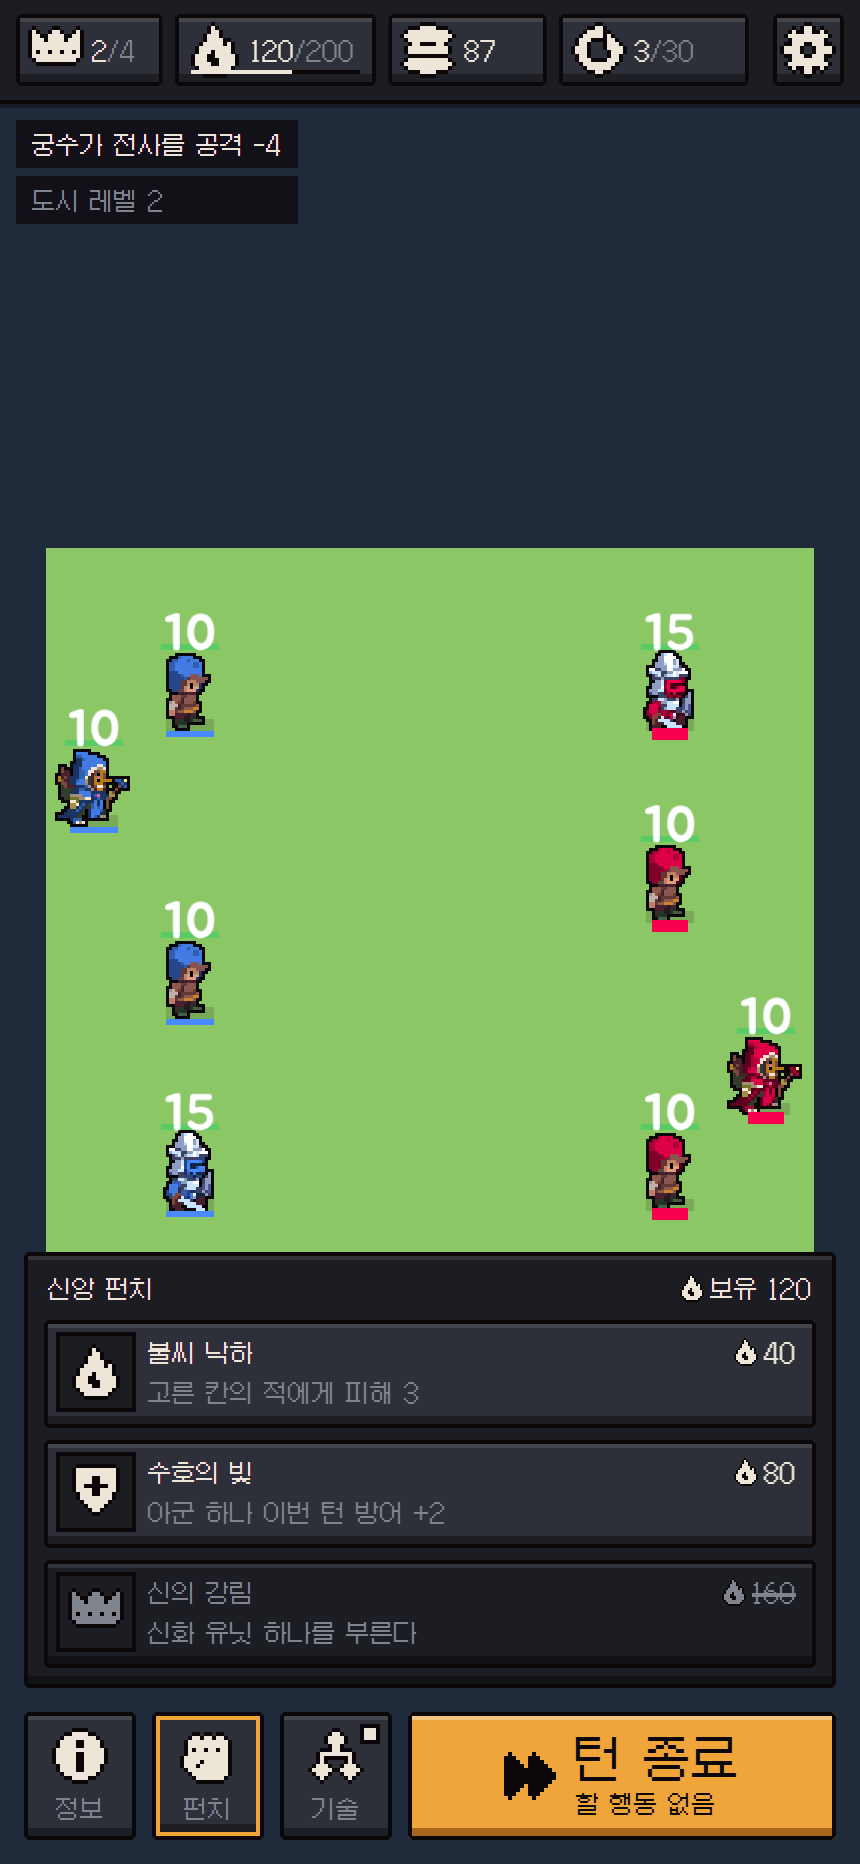
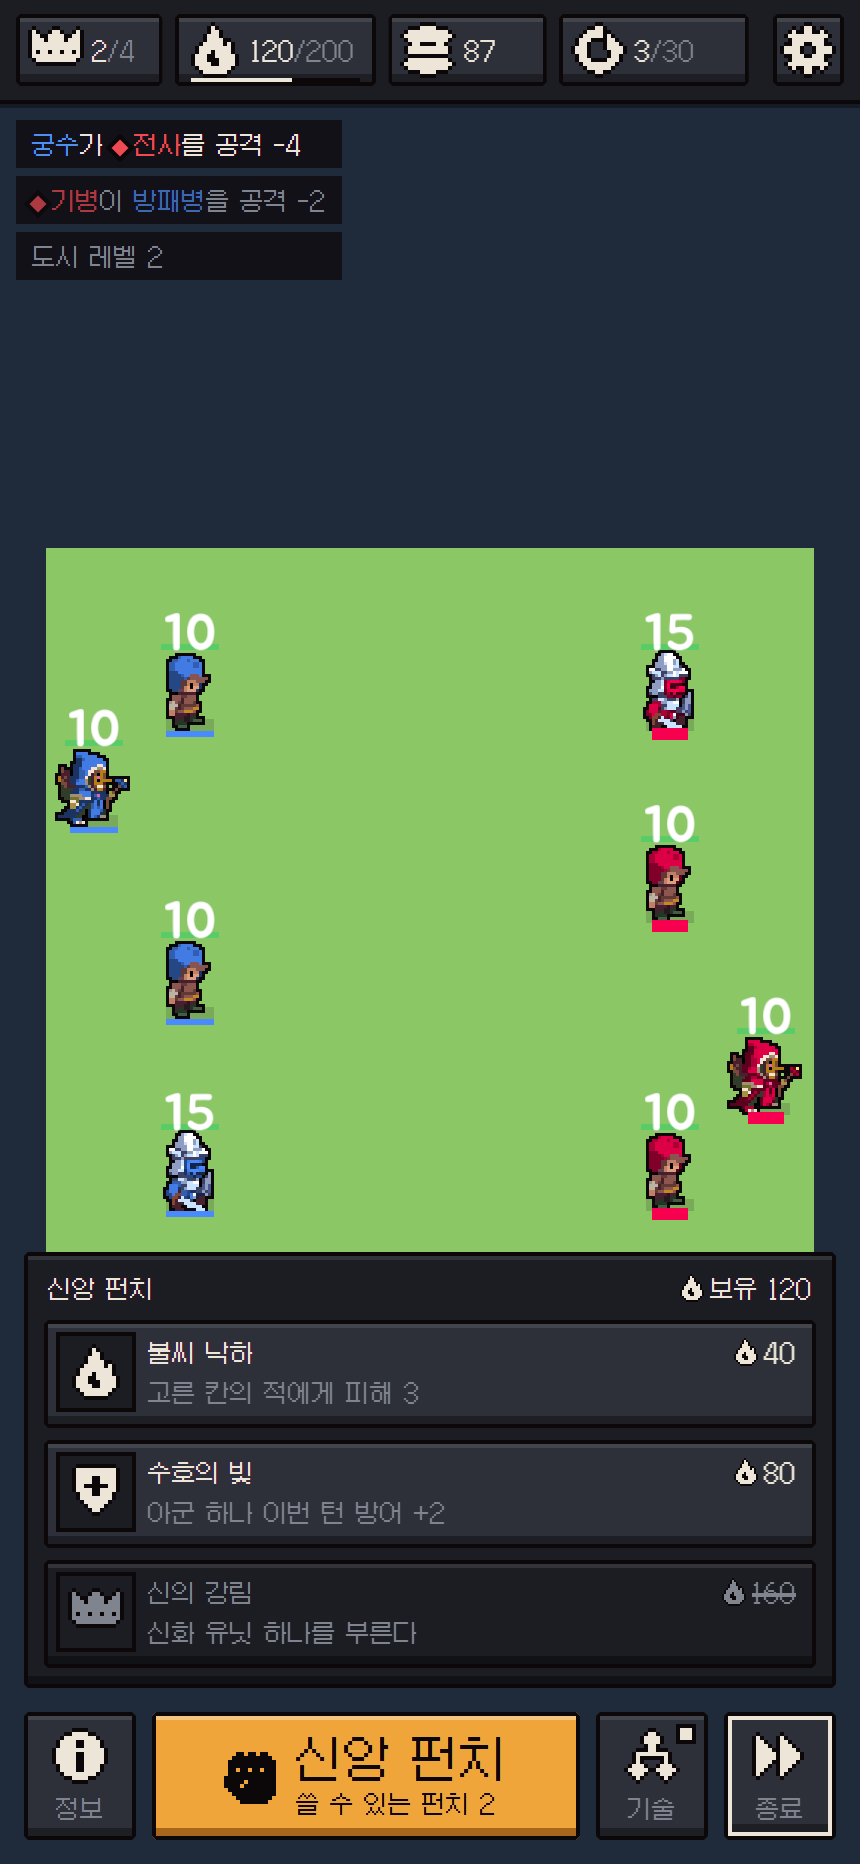
docs(hud): emphasize faith punch over end turn; team-colored log names
- Faith punch is now the only A-tier element: widest bottom button with
  amber fill and "n usable" sub-line. End turn drops to D-tier: square
  tool button, no accent, states told by outline/icon/count.
- Action log colors only entity names with team colors (same as map
  badges), with a team mark before enemy names so color is not the only cue.
- Faith gauge sits on the chip bottom so it no longer overlaps the icon.

Changed region(s): [[0.0, 0.0311, 0.4233, 0.1556], [0.1814, 0.9024, 0.6349, 0.9957], [0.6651, 0.9024, 0.9674, 0.9957]]

diff --git a/docs/mockups/hud/hud_mockup.html b/docs/mockups/hud/hud_mockup.html
@@ -59,7 +59,7 @@ canvas.icon { image-rendering: pixelated; display: block; flex: none; }
 .chip { display: flex; align-items: center; gap: 4px; height: 36px; padding: 0 8px 0 4px; }
 .chip .val { font-size: 12px; letter-spacing: 0; white-space: nowrap; }
 .chip .val .max { color: var(--muted); }
-.chip .gauge { position: absolute; left: 6px; right: 6px; bottom: 4px; height: var(--t); background: var(--ink); }
+.chip .gauge { position: absolute; left: 6px; right: 6px; bottom: 0; height: var(--t); background: var(--ink); }
 .chip .gauge i { display: block; height: 100%; background: var(--paper); }
 .spacer { flex: 1; }
 .iconbtn { width: 36px; height: 36px; display: flex; align-items: center; justify-content: center; }
@@ -69,16 +69,23 @@ canvas.icon { image-rendering: pixelated; display: block; flex: none; }
   font-size: 12px; line-height: 12px; color: var(--muted);
   padding: 1px 3px; background: rgba(12,8,10,0.55);
 }
-.endturn:has(.key) { justify-content: flex-start; padding-left: 10px; }
+.punchbtn .key { top: 3px; bottom: auto; }
+.count { position: absolute; right: 4px; top: 3px; font-size: 12px; line-height: 12px; color: var(--paper); }
+:root { --team-p: #4f8ff0; --team-e: #ef4b55; }
+.team { font-weight: normal; }
+.team.p { color: var(--team-p); }
+.team.e { color: var(--team-e); }
+.team .mark { display: inline-block; width: 6px; height: 6px; margin: 0 4px 1px 0; background: var(--team-e); transform: rotate(45deg); box-shadow: 0 0 0 var(--t) var(--ink); }
+.toast div.old .team { opacity: 0.7; }
 .accent-fill .key { color: var(--ink); background: rgba(12,8,10,0.12); }
 
 .actionrow { position: absolute; display: flex; gap: 8px; align-items: stretch; }
 .act { display: flex; flex-direction: column; align-items: center; justify-content: center; gap: 4px; }
 .act .lbl { font-size: 12px; color: var(--muted); }
-.act.endturn { flex: 1; flex-direction: row; gap: 8px; }
-.endturn .txt { display: flex; flex-direction: column; gap: 3px; }
-.endturn .big { font-size: 24px; line-height: 24px; font-family: 'Galmuri11', 'Jua', sans-serif; }
-.endturn .sub { font-size: 12px; }
+.act.punchbtn { flex: 1; flex-direction: row; gap: 8px; }
+.punchbtn .txt { display: flex; flex-direction: column; gap: 3px; }
+.punchbtn .big { font-size: 24px; line-height: 24px; font-family: 'Galmuri11', 'Jua', sans-serif; }
+.punchbtn .sub { font-size: 12px; }
 .badge-dot { position: absolute; right: 6px; top: 6px; width: 6px; height: 6px; background: var(--paper); box-shadow: 0 0 0 var(--t) var(--ink); }
 
 .punch { position: absolute; display: flex; flex-direction: column; gap: 6px; padding: 8px; }
@@ -320,19 +327,19 @@ const ICONS = {
 };
 
 const css = name => getComputedStyle(document.documentElement).getPropertyValue(name).trim();
-function icon(name, color = 'paper', scale = 2) {
+function icon(name, color = 'paper', scale = 2, detail = 'ink') {
   const g = ICONS[name], S = N + 2;
   const cv = document.createElement('canvas');
   cv.width = S; cv.height = S; cv.className = 'icon';
   cv.style.width = cv.style.height = (S * scale) + 'px';
   const ctx = cv.getContext('2d');
-  const fill = css('--' + color), ink = css('--ink');
+  const fill = css('--' + color), ink = css('--ink'), det = css('--' + detail);
   const at = (x, y) => (x >= 0 && y >= 0 && x < N && y < N) ? g[y][x] : '.';
   for (let y = -1; y <= N; y++) for (let x = -1; x <= N; x++) {
     const c = at(x, y);
     let col = null;
     if (c === '#') col = fill;
-    else if (c === 'd') col = ink;
+    else if (c === 'd') col = det;
     else if ([[1,0],[-1,0],[0,1],[0,-1]].some(([dx, dy]) => at(x + dx, y + dy) !== '.')) col = ink;
     if (col) { ctx.fillStyle = col; ctx.fillRect(x + 1, y + 1, 1, 1); }
   }
@@ -380,18 +387,19 @@ function actionRow(o) {
     return b;
   };
   const info = mk('info', o.labels ? '정보' : '', 'I', o.infoOpen ? 'hover' : '');
-  const punch = mk('fist', o.labels ? '펀치' : '', 'F', 'accent-line');
+  // 7 신앙 펀치: 유일한 A등급 — 남는 폭 전부 + 쓸 수 있으면 Accent 채움
+  const punch = box(h('div', 'frame act punchbtn accent-fill'), { height: o.height + 'px' });
+  put(punch, icon('fist', 'ink', 2, 'accent'));  // Accent 바탕 위: 칠은 잉크, 디테일은 바탕색
+  const txt = h('div', 'txt');
+  txt.appendChild(h('span', 'big', '신앙 펀치'));
+  txt.appendChild(h('span', 'sub', '쓸 수 있는 펀치 2'));
+  punch.appendChild(txt);
+  if (o.keys) punch.appendChild(key('F'));
   const tech = mk('tree', o.labels ? '기술' : '', 'T');
   tech.appendChild(h('span', 'badge-dot'));
-  const end = box(h('div', 'frame act endturn ' + (o.endState === 'noaction' ? 'accent-fill' : '')), { height: o.height + 'px' });
-  const endColor = o.endState === 'noaction' ? 'ink' : 'paper';
-  put(end, icon('ff', endColor));
-  const txt = h('div', 'txt');
-  txt.appendChild(h('span', 'big', '턴 종료'));
-  txt.appendChild(box(h('span', 'sub', o.endState === 'noaction' ? '할 행동 없음' : '남은 행동 2'),
-    { color: o.endState === 'noaction' ? 'var(--ink)' : 'var(--muted)' }));
-  end.appendChild(txt);
-  if (o.keys) end.appendChild(key('Space'));
+  // 9 턴 종료: D등급 — 정사각형, 포인트 컬러 없음. 행동 없음이면 Paper 테두리, 남았으면 남은 수
+  const end = mk(o.endState === 'over' ? 'flag' : 'ff', o.labels ? '종료' : '', 'Space', o.endState === 'noaction' ? 'hover' : '');
+  if (o.endState === 'left') end.appendChild(h('span', 'count', '2'));
   put(row, info, punch, tech, end);
   return { row, punch };
 }
@@ -426,6 +434,9 @@ function punchList(o) {
   return p;
 }
 
+// 행동 기록: 개체 이름 글자만 팀 색, 적 이름 앞에는 팀 표식(색에만 기대지 않게)
+const P = n => `<b class="team p">${n}</b>`;
+const E = n => `<b class="team e"><i class="mark"></i>${n}</b>`;
 function toast(pos, lines) {
   const t = box(h('div', 'toast'), pos);
   lines.forEach((l, i) => t.appendChild(h('div', i ? 'old' : '', l)));
@@ -478,17 +489,17 @@ if (v === 'mobile') {
   screen.appendChild(map(0.5));
   const chipW = Math.floor((W - 16 - 36 - 6 * 4) / 4);
   screen.appendChild(topbar({ height: 52, rank: 2, chipWidth: [chipW - 14, chipW + 14, chipW - 8, chipW + 8], turnLimit: 30 }));
-  screen.appendChild(toast({ left: '8px', top: '60px' }, ['궁수가 전사를 공격 -4', '도시 레벨 2']));
+  screen.appendChild(toast({ left: '8px', top: '60px' }, [`${P('궁수')}가 ${E('전사')}를 공격 -4`, `${E('기병')}이 ${P('방패병')}을 공격 -2`, '도시 레벨 2']));
   const { row } = actionRow({ pos: { left: pad + 'px', right: pad + 'px', bottom: pad + 'px' }, height: rowH, square: sq, labels: true, endState: 'noaction' });
   screen.appendChild(row);
   const punchX = pad + sq + 8;
-  screen.appendChild(punchList({ pos: { left: pad + 'px', right: pad + 'px', bottom: (pad + rowH + 12) + 'px' }, notchX: punchX - pad + sq / 2 + 4 - 6 }));
+  screen.appendChild(punchList({ pos: { left: pad + 'px', right: pad + 'px', bottom: (pad + rowH + 12) + 'px' }, notchX: (sq + 8) + (W - pad * 2 - sq * 3 - 24) / 2 - 6 }));
 } else {
   // PC(넓은 배치) · 키보드·마우스 · 유닛 정보 열림 · 신앙 칩에 마우스 · 행동 남음
   const colW = 360, pad = 12, rowH = 56, sq = 56;
   screen.appendChild(map(2 / 3));
   screen.appendChild(topbar({ height: 48, rank: 1, keys: true, faithHover: true, chipWidth: [84, 118, 76, 64] }));
-  screen.appendChild(toast({ left: '8px', top: '200px' }, ['궁수가 전사를 공격 -4', '도시 레벨 2']));
+  screen.appendChild(toast({ left: '8px', top: '200px' }, [`${P('궁수')}가 ${E('전사')}를 공격 -4`, `${E('기병')}이 ${P('방패병')}을 공격 -2`, '도시 레벨 2']));
   const { row } = actionRow({ pos: { right: pad + 'px', bottom: pad + 'px', width: colW + 'px' }, height: rowH, square: sq, labels: false, keys: true, infoOpen: true, endState: 'left' });
   screen.appendChild(row);
   screen.appendChild(unitPanel({ right: pad + 'px', top: '60px', width: colW + 'px' }));

diff --git a/docs/HudPixelRedesignPlan.md b/docs/HudPixelRedesignPlan.md
@@ -24,18 +24,18 @@
 
 - 포인트 컬러는 **호박색**으로 정했다(신앙·금화와 연결된다). 정확한 색값은 지도(지형·팀 색)와 겹치지 않는지 실제 화면 캡처로 확인하며 정한다.
 - `Accent`는 명도 2단(`Accent`, `AccentDark` = 베벨 그림자)만 허용. 9-slice 틀은 지금처럼 무채색으로 그리고 `Image.color`로 물들인다.
-- 지금 HUD에 흩어진 색(`PrimaryColor`, `StarColor`, `FaithColor`, 턴 표시의 `PlayerAccent`/`EnemyAccent`)은 위 토큰으로 흡수한다. **팀 색은 지도(유닛 배지)에만 남기고 HUD에서는 뺀다** — 적 턴은 색 대신 "적 차례" 문구 + 턴 종료 버튼 잠금으로 보여 준다.
+- 지금 HUD에 흩어진 색(`PrimaryColor`, `StarColor`, `FaithColor`, 턴 표시의 `PlayerAccent`/`EnemyAccent`)은 위 토큰으로 흡수한다. **팀 색은 지도(유닛 배지)와 행동 기록의 개체 이름 글자에만 쓴다** — 칸·버튼 바탕에는 칠하지 않으므로 포인트 컬러 개수에 넣지 않는다. 적 턴은 색 대신 "적 차례" 문구 + 턴 종료 버튼 잠금으로 보여 준다.
 
 ## 3. 중요도 등급
 
 | 등급 | 요소 | 판단 근거 | 표현 |
 |---|---|---|---|
-| A — 행동 | 9 턴 종료, 7 신앙 펀치 | 매 턴 누르며, 누를 타이밍이 중요 | 하단, 가장 큰 버튼, 상태에 따라 `Accent` |
+| A — 결정 | 7 신앙 펀치 | 쓸 타이밍이 판세를 바꾼다 | 하단 가운데, 가장 넓은 버튼, 쓸 수 있으면 `Accent` 채움 |
 | B — 자원 | 2 신앙 포인트, 3 골드 | 매 행동 전 확인하는 숫자 | 상단 가운데, 큰 숫자(2배 글자) |
 | C — 맥락 | 4 턴, 1 신앙 순위 | 가끔 보는 진행 정보 | 상단 양쪽, 작은 숫자 |
-| D — 도구 | 5 메뉴, 6 정보, 8 기술 트리 | 필요할 때만 여는 창 | 아이콘만, 무채색, 작은 버튼 |
+| D — 도구 | 5 메뉴, 6 정보, 8 기술 트리, 9 턴 종료 | 필요할 때만 여는 창 / 정해진 때 한 번 누르는 버튼 | 아이콘(+작은 라벨), 무채색, 정사각형 버튼 |
 
-> 시안은 하단 4버튼이 같은 크기지만, 이 등급에 따라 **9 > 7 > 8 = 6** 으로 폭을 다르게 한다(순서는 시안 유지).
+> 시안은 하단 4버튼이 같은 크기지만, 이 등급에 따라 **7이 남는 폭을 모두 갖고 6 = 8 = 9는 정사각형**으로 둔다(순서는 시안 유지).
 
 ## 4. 요소별 디자인
 
@@ -45,7 +45,7 @@
 | # | 내용 | 아이콘(16×16) | 상태 표현 |
 |---|---|---|---|
 | 1 | 신앙 순위 `n/전체` — 기존 [신앙 순위](spec/game/faith.md)(살아 있는 유닛 수, 공동 순위 포함) | 왕관 | 1위일 때만 왕관을 `Accent`. 나머지는 `Paper`. 누르면 말풍선: 유닛 수 · 다음 순위까지 필요한 유닛 수 · 순위 보너스(`Faith.RankBonus*`) |
-| 2 | 신앙 `현재/최대` + 아래 1텍셀 게이지 | 불꽃 | 최대치 도달 시 게이지 `Accent`(넘치는 신앙이 버려진다는 신호). 다음 턴 수입은 누르면 말풍선 |
+| 2 | 신앙 `현재/최대` + 칩 바닥의 1텍셀 게이지(아이콘 아래에 붙여 겹치지 않게) | 불꽃 | 최대치 도달 시 게이지 `Accent`(넘치는 신앙이 버려진다는 신호). 다음 턴 수입은 누르면 말풍선 |
 | 3 | 골드(현재의 "별") `0~999` | 동전 더미 | 이번 턴 살 수 있는 게 없으면 숫자를 `Muted` |
 | 4 | 턴 `현재/제한`, 제한 없으면 `현재`만 | 원형 화살표 | 남은 턴이 적을 때(규칙값은 CSV) 숫자 깜빡임 2프레임 |
 | 5 | 메뉴 | 톱니 | 항상 무채색. 지금의 메뉴 팝업(session 문서 "메뉴") 그대로 |
@@ -54,22 +54,25 @@
 - 숫자는 999에서 표시만 자른다(`999+`). 규칙 상한이 생기면 그 값은 CSV에 둔다.
 
 ### 하단 행동 줄 (6~9)
-엄지 영역. 왼쪽부터 `[6 ⓘ] [7 펀치] [8 트리] [9 ▶▶  턴 종료 ]`.
+엄지 영역. 왼쪽부터 `[6 ⓘ] [7 ✊ 신앙 펀치 ] [8 트리] [9 ▶▶]`.
 
 - **6 정보**: 정보 패널(지금 선택 시 자동으로 열리는 패널)을 열고 닫는 토글. 아무것도 안 골랐으면 내 종족 요약(유닛 수/수용량, 도시 수).
 - **7 신앙 펀치**: 누르면 버튼 위로 스킬 카드가 세로로 쌓여 펼쳐지는 토스트(시안 오른쪽 위 그림).
   - 카드 = `[아이콘] 이름 · 소비 신앙` / `설명 한 줄`. 지금 쓸 수 있는 카드는 `Paper`, 신앙 부족은 `Muted` + 비용 숫자에 취소선 픽셀.
-  - 버튼 자체는 "이번 턴 쓸 수 있는 펀치가 1개 이상"일 때만 `Accent` 테두리.
+  - 버튼은 아이콘 + 큰 라벨 "신앙 펀치" + 작은 줄 "쓸 수 있는 펀치 n". 1개 이상이면 **`Accent` 채움**(글자·아이콘은 `Ink`), 없으면 `Raised` 바탕에 `Muted` 글자.
   - 바깥을 누르거나 `Esc`로 닫힘(지금 `Esc` 닫기 순서 유지).
 - **8 기술 트리**: 지금 상단 막대의 기술트리 버튼을 내려온다. 연구 가능한 기술이 있으면 우상단 1점 배지(무채색 `Paper` 점).
-- **9 턴 종료**: 가장 넓은 버튼, 상태 3가지(시안 오른쪽 아래 체크 3개)를 색 하나로 구분.
+- **9 턴 종료**: 다른 도구 버튼과 같은 정사각형, 아이콘 + 작은 라벨. 포인트 컬러를 쓰지 않고 상태 3가지(시안 오른쪽 아래 체크 3개)를 테두리·아이콘으로만 구분.
 
 | 상태 | 시안 | 표현 |
 |---|---|---|
-| 행동 남음 | 흰 체크 | `Raised` 바탕 + `Paper` 테두리, 아이콘 ▶▶, 라벨 작게 "남은 행동 n" |
-| 행동 없음 | 파란 체크 | **`Accent` 채움** + 아이콘 ▶▶ + 2프레임 숨쉬기(밝기만, 크기 변화 없음) |
-| 게임 종료 | 초록 체크 | **`Accent` 채움 + 반전 아이콘(깃발)** + 라벨 "결과 보기" |
+| 행동 남음 | 흰 체크 | `Raised` 바탕, 아이콘 ▶▶, 라벨 "종료", 우상단에 남은 행동 수 작은 숫자 |
+| 행동 없음 | 파란 체크 | `Paper` 테두리 + 아이콘 ▶▶ (숫자 없음) |
+| 게임 종료 | 초록 체크 | `Paper` 테두리 + 깃발 아이콘, 라벨 "결과" |
 | 적 차례 | — | `Base` 바탕, 모래시계 아이콘, 누를 수 없음 |
+
+### 행동 기록(왼쪽 위 알림)
+한 줄 = `주체 이름 · 동작 · 대상 이름 · 결과`. **개체 이름 글자만 팀 색**(지도 유닛 배지와 같은 색)으로 칠하고, 동작·결과는 `Paper`, 지난 줄은 `Muted`. 색만으로 구분되지 않게 적 이름 앞에는 작은 팀 표식(지도 배지와 같은 모양)을 붙인다. 도시처럼 팀이 없는 대상은 `Paper`.
 
 ### PC·모바일 공용
 시안은 휴대폰 세로 화면이다. PC에서도 **같은 요소·순서·색·그림**을 쓰고, 두 가지만 따로 고른다.
@@ -79,7 +82,7 @@
 | | 좁은 배치(휴대폰 세로) | 넓은 배치(PC·휴대폰 가로) |
 |---|---|---|
 | 상단 막대 | 1~4 칩이 폭을 나눠 갖고, 5는 오른쪽 끝 | 1~4는 왼쪽 묶음(고정 폭), 5는 오른쪽 끝. 가운데는 비워 지도를 보인다 |
-| 하단 행동 줄 | 화면 아래 폭 전체, 9가 남는 폭을 차지 | 오른쪽 열 아래 묶음(열 폭에 맞춤). 6·7·8은 정사각형, 9가 남는 폭 |
+| 하단 행동 줄 | 화면 아래 폭 전체, 7이 남는 폭을 차지 | 오른쪽 열 아래 묶음(열 폭에 맞춤). 6·8·9는 정사각형, 7이 남는 폭 |
 | 정보 패널 | 행동 줄 위 아래 시트 | 오른쪽 열(행동 줄 바로 위) |
 | 신앙 펀치 카드 | 7 위로 쌓임, 폭 전체 | 7 위로 쌓임, 오른쪽 열 폭 |
 | 설명 말풍선 | 누르고 있으면 상단 막대 아래에 | 마우스를 올리면 그 요소 바로 아래에 |
@@ -93,7 +96,7 @@
 
 ## 5. 픽셀 에셋
 
-- **틀**: `scripts/author_pixel_ui.py`의 Panel·Button·Badge를 유지하고 `ButtonWide`(9 전용, 베벨 2텍셀)와 `Card`(7 토스트)만 추가.
+- **틀**: `scripts/author_pixel_ui.py`의 Panel·Button·Badge를 유지하고 `ButtonWide`(7 전용, 베벨 2텍셀)와 `Card`(7 토스트)만 추가.
 - **아이콘**: 12×12, 1색 실루엣 + 외곽선 1텍셀. `scripts/author_pixel_patterns.py` 패턴으로 그려 [`SpriteCatalog.csv`](spec/csv/sprites.md)에 키 등록(왕관·불꽃·동전·턴·톱니·정보·주먹·트리·▶▶·깃발·모래시계). 아이콘은 무채색으로 그리고 색은 코드에서 토큰으로 물들인다.
 - **글꼴**: 지금 Jua(픽셀 아님) → 한글 픽셀 글꼴(예: Galmuri, OFL) 검토. 숫자 전용으로 먼저 바꾸고 본문은 가독성 비교 후 결정.
 - **움직임**: 깜빡임·숨쉬기는 2프레임, 0.5초 간격 정도의 계단식. 보간(트윈) 없음.
